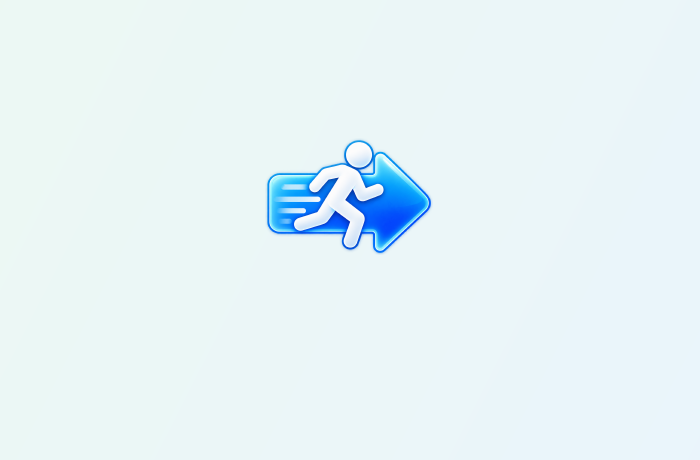
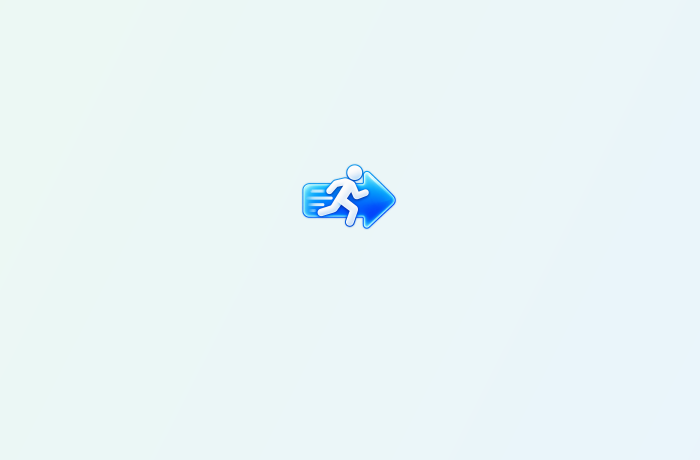
Shrink the install-window arrow to the usual size
168px put it in competition with the 128px icons it sits between. An
installer arrow is a hint about the gesture, not a third object: 96px,
roughly two thirds of the icon size, is the conventional proportion.
The figure inside still reads at that size.

Changed region(s): [[0.36, 0.3043, 0.63, 0.5478]]

diff --git a/tools/make_dmg_art.py b/tools/make_dmg_art.py
@@ -19,7 +19,10 @@ from make_icon import content_bounds, crop, read_png  # noqa: E402
 WIDTH, HEIGHT = 700, 460
 # The gap between the two icons, in the window's own coordinates.
 ARROW_CENTRE = (349, 196)
-ARROW_WIDTH = 168
+# Installer arrows are a hint between the icons, not a third object competing
+# with them: conventionally around two thirds of the icon size, so 96 against
+# the 128px icons here.
+ARROW_WIDTH = 96
 # Sampled from the icon: green on the left, blue on the right.
 GREEN = (0x3F, 0xB9, 0x8B)
 BLUE = (0x2E, 0x96, 0xD8)
